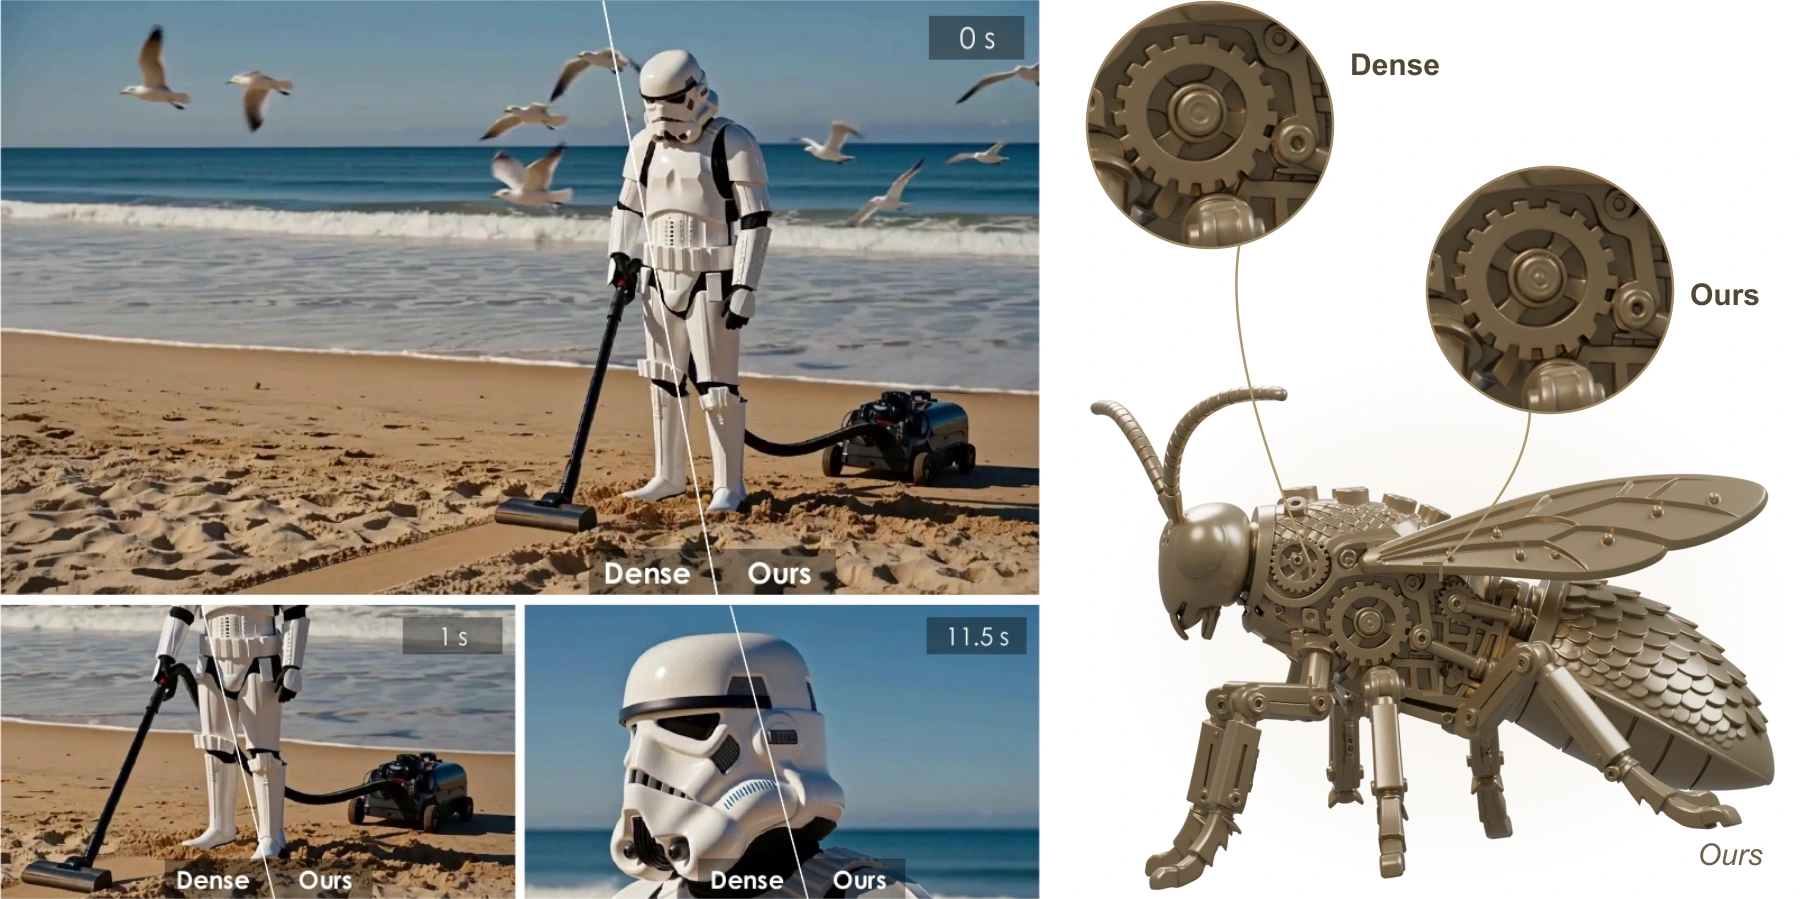
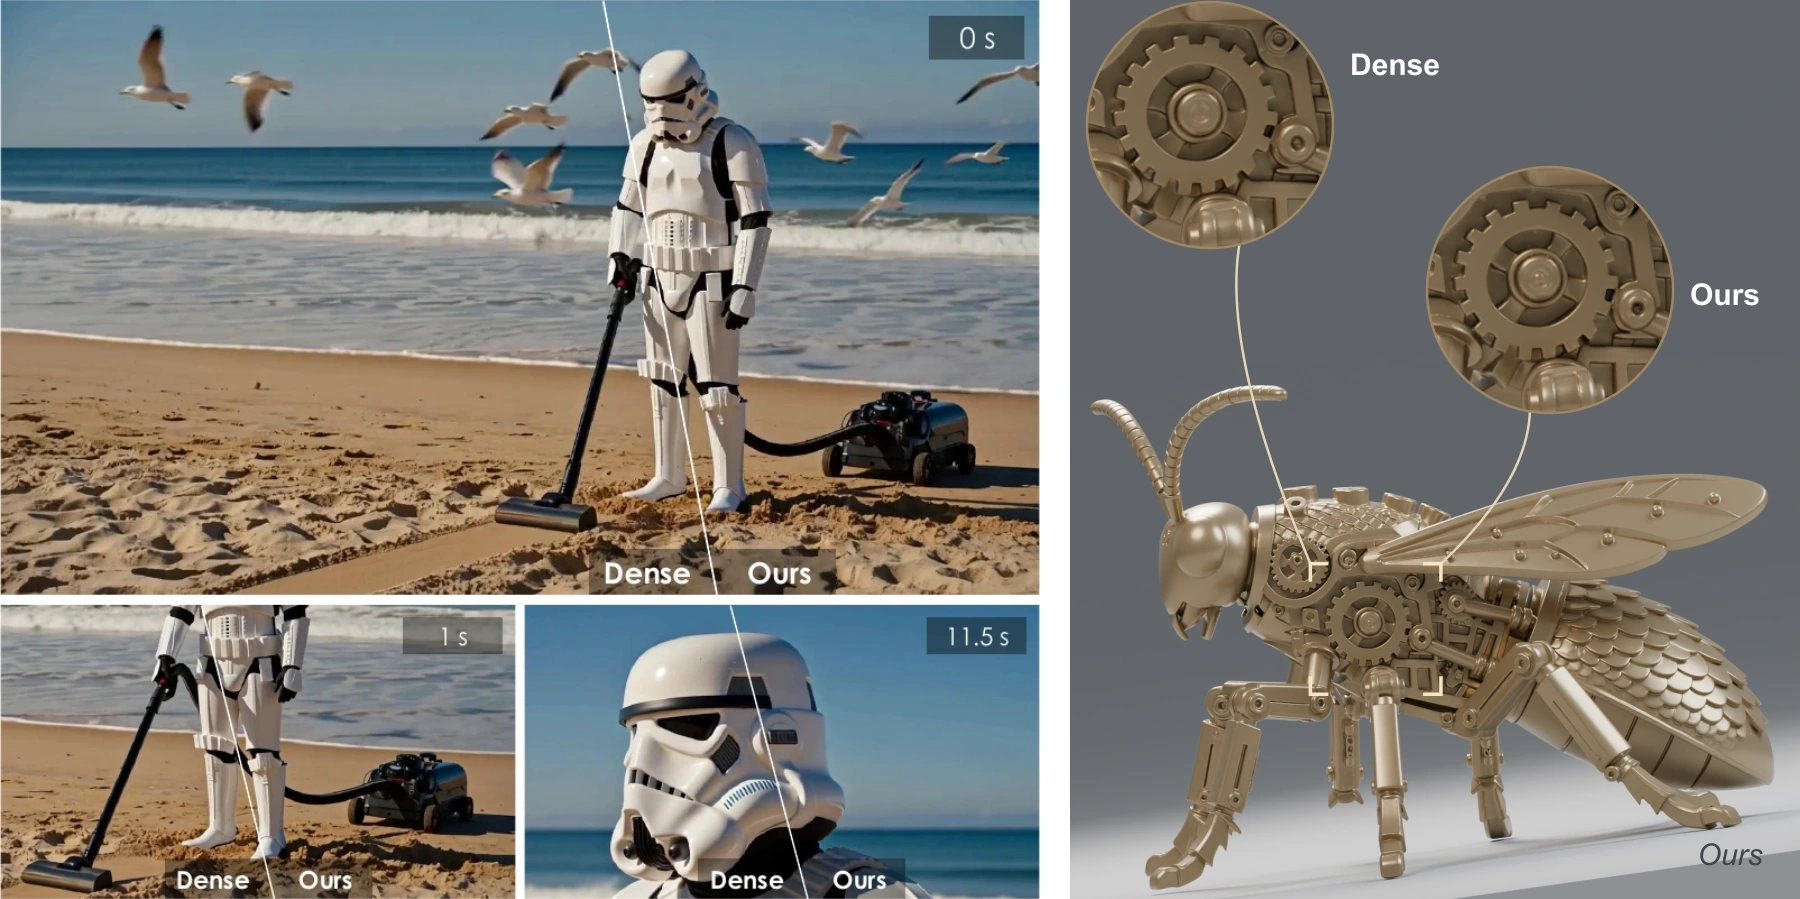
Update bio and Noematrix internship with gray studio teaser

Changed region(s): [[0.5911, 0.0, 1.0, 1.0]]

diff --git a/_pages/about.md b/_pages/about.md
@@ -18,7 +18,9 @@ redirect_from:
 
 # 🧑 About me
 
-I am a Ph.D. student at the [Fudan University (FDU)](https://www.fudan.edu.cn/en/) and [Shanghai Innovation Institute (SII)](https://www.sii.edu.cn/), where I began my doctoral studies in September 2026. Previously, I studied Computer Science and Technology at the [Harbin Institute of Technology, Shenzhen (HITSZ)](https://www.hitsz.edu.cn/). From December 2025 to September 2026, I was a Research Intern in the Qingyun Program with the [Tencent Hunyuan3D team](https://3d.hunyuan.tencent.com/), working on efficient architectures for 3D generation.
+I am a first-year Ph.D. student at [Fudan University (FDU)](https://www.fudan.edu.cn/en/) and [Shanghai Innovation Institute (SII)](https://www.sii.edu.cn/), supervised by Prof. [Cewu Lu](https://www.qingyuan.sjtu.edu.cn/a/Cewu-Lu.html). I received my B.S. in Computer Science and Technology from [Harbin Institute of Technology, Shenzhen (HITSZ)](https://www.hitsz.edu.cn/). Previously, I was a Research Intern in the Qingyun Program with the [Tencent Hunyuan3D team](https://3d.hunyuan.tencent.com/), working on efficient architectures for 3D generation.
+
+I am currently a Research Intern at [Noematrix](https://www.noematrix.ai/), building scalable world-action models trained entirely on robot-free human demonstration data, including UMI demonstrations and egocentric videos.
 
 <!-- [CV](files/cv_en.pdf)   [简历](files/cv_zh.pdf) -->
 
@@ -40,6 +42,10 @@ My current research interests include:
 <br>
 
 # 💻 Experience
+- **Research Intern** \| [Noematrix](https://www.noematrix.ai/) \| 10/2026 – Present
+
+  Building scalable world-action models trained entirely on robot-free human demonstration data, including UMI demonstrations and egocentric videos.
+
 - **Research Intern (Qingyun Program)** \| [Hunyuan3D, Tencent](https://3d.hunyuan.tencent.com/) \| 12/2025 – 09/2026
 
 - **Visiting Student** \| [IGL-HKUST](https://github.com/IGL-HKUST) \| 12/2024 – 09/2025, Mentored by Prof. [Yuan Liu](https://liuyuan-pal.github.io/)
@@ -49,7 +55,7 @@ My current research interests include:
 <br>
 
 # 📝 Publications 
-<div class='paper-box'><div class='paper-box-image'><div><div class="badge">arXiv 2026</div><a href="images/mcsparse-side-view.webp" target="_blank" rel="noopener"><img src='images/mcsparse-side-view.webp' alt="MC-Sparse: original three-frame diagonal Dense/Ours video comparisons alongside a complete mechanical beetle rendered from Ours at a near-eye-level side angle, with staggered Dense and Ours circular magnifications of the marked gear region. Both meshes use identical camera, material, and lighting." width="100%"></a></div></div>
+<div class='paper-box'><div class='paper-box-image'><div><div class="badge">arXiv 2026</div><a href="images/mcsparse-side-view.webp" target="_blank" rel="noopener"><img src='images/mcsparse-side-view.webp' alt="MC-Sparse: original three-frame diagonal Dense/Ours video comparisons alongside a complete mechanical beetle rendered from Ours at a near-eye-level side angle on a gray studio floor with soft shadows, with staggered Dense and Ours circular magnifications of the marked gear region. Both meshes use identical camera, material, and lighting." width="100%"></a></div></div>
 <div class='paper-box-text' markdown="1">
 
 <a href="https://dodododddo.github.io/mcsparse-project-page/" style="font-size: 22px; color: #483D8B; text-decoration: none">**MC-Sparse: Deconstructing and Closing the Dense-Sparse Attention Gap in Diffusion Transformers**</a><br>
@@ -122,6 +128,9 @@ My current research interests include:
 </div>
 
 # 🏆 Honors and Awards
+
+## During My Undergraduate Studies
+
 - National Scholarship, 2025. (Top 0.2% nationwide in China & Top 0.4% in HITSZ)
 - Tat-Seng Chua Scholarship, Harbin Institute of Technology, Shenzhen, 2025. (8 undergraduates per year)
 - First-Prize Academic Scholarship, Harbin Institute of Technology, Shenzhen, 2024. (Top 5%)
